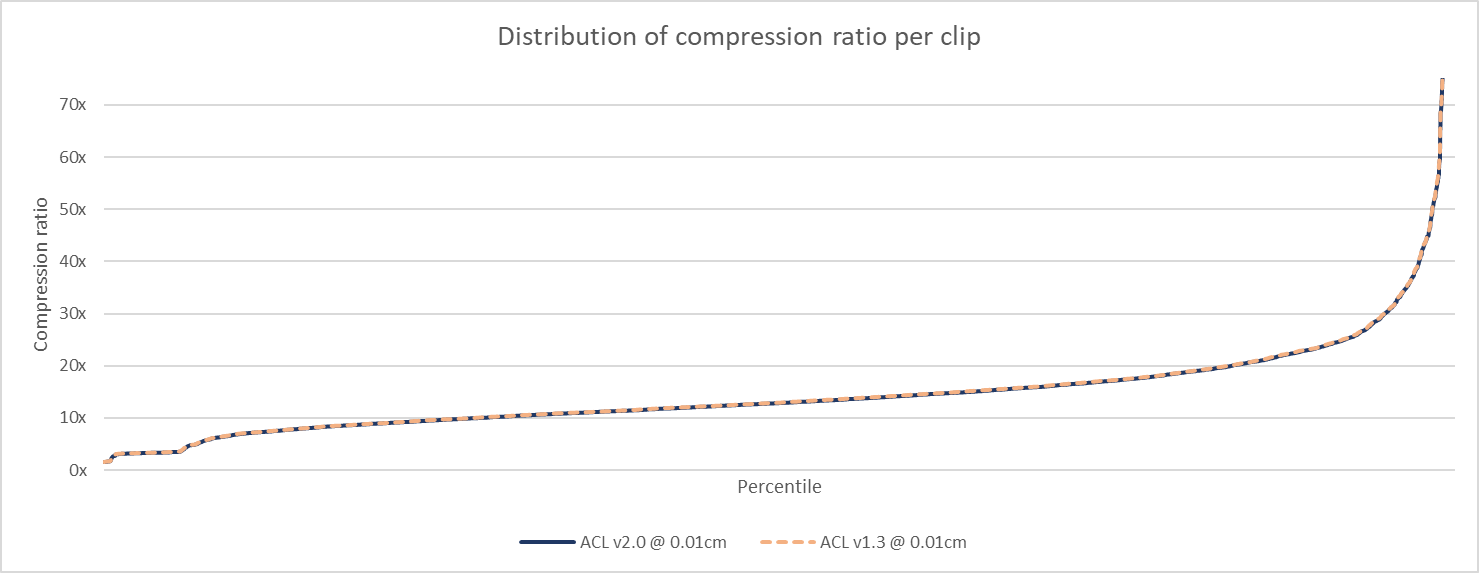
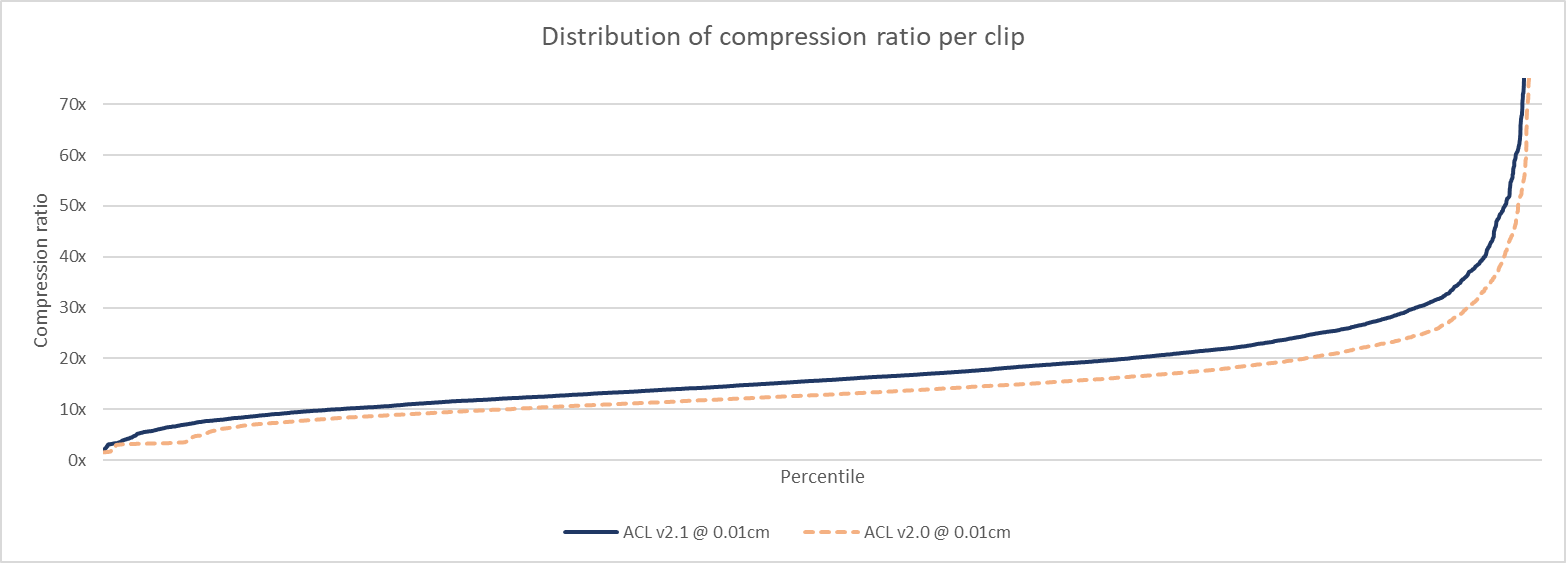
docs: update Paragon compression stats

diff --git a/docs/paragon_performance.md b/docs/paragon_performance.md
@@ -1,14 +1,14 @@
 # Paragon database performance
 
-|                       | v2.0.0 | v1.3.0 | v1.2.0  |
+|                       | v2.1.0 | v2.0.0 | v1.3.0 |
 | --------------------- | ------------- | ------------- | ------------- |
-| **Compressed size**   | 208.93 MB | 208.32 MB | 218.58 MB |
-| **Compression ratio** | 20.47 : 1 | 20.53 : 1 | 19.56 : 1 |
-| **Compression time**  | 8m 10.69s | 10m 23.05s | 28m 56.48s |
-| **Compression speed**  | 8923.56 KB/sec | 7027.87 KB/sec | 2521.62 KB/sec |
-| **Max error**         | 4.1029 cm | 2.8669 cm | 4.0184 cm |
-| **Error 99<sup>th</sup> percentile** | 0.0099 cm | 0.0099 cm | 0.0116 cm |
-| **Samples below error threshold** | 99.04 % | 99.04 % | 98.85 % |
+| **Compressed size**   | 181.25 MB | 208.93 MB | 208.32 MB |
+| **Compression ratio** | 23.59 : 1 | 20.47 : 1 | 20.53 : 1 |
+| **Compression time**  | 22m 40.51s | 8m 10.69s | 10m 23.05s |
+| **Compression speed**  | 3218.44 KB/sec | 8923.56 KB/sec | 7027.87 KB/sec |
+| **Max error**         | 3.9834 cm | 4.1029 cm | 2.8669 cm |
+| **Error 99<sup>th</sup> percentile** | 0.0096 cm | 0.0099 cm | 0.0099 cm |
+| **Samples below error threshold** | 99.52 % | 99.04 % | 99.04 % |
 
 Notes:
 
@@ -41,7 +41,7 @@ ACL supports various compression methods but only the overall best variant will 
 
 The error is measured **3cm** away from each bone to simulate the visual mesh skinning process as described [here](error_metrics.md) with the default error threshold of **0.01cm**. The **99th** percentile and the number of samples below the error threshold are calculated by measuring the error on every bone at every sample.
 
-The performance of ACL in Unreal Engine 4 is tracked by the plugin [here](https://github.com/nfrechette/acl-ue4-plugin/blob/develop/Docs/paragon_performance.md).
+The performance of ACL in Unreal Engine is tracked by the plugin [here](https://github.com/nfrechette/acl-ue4-plugin/blob/develop/Docs/paragon_performance.md).
 
 # Results in images
 
